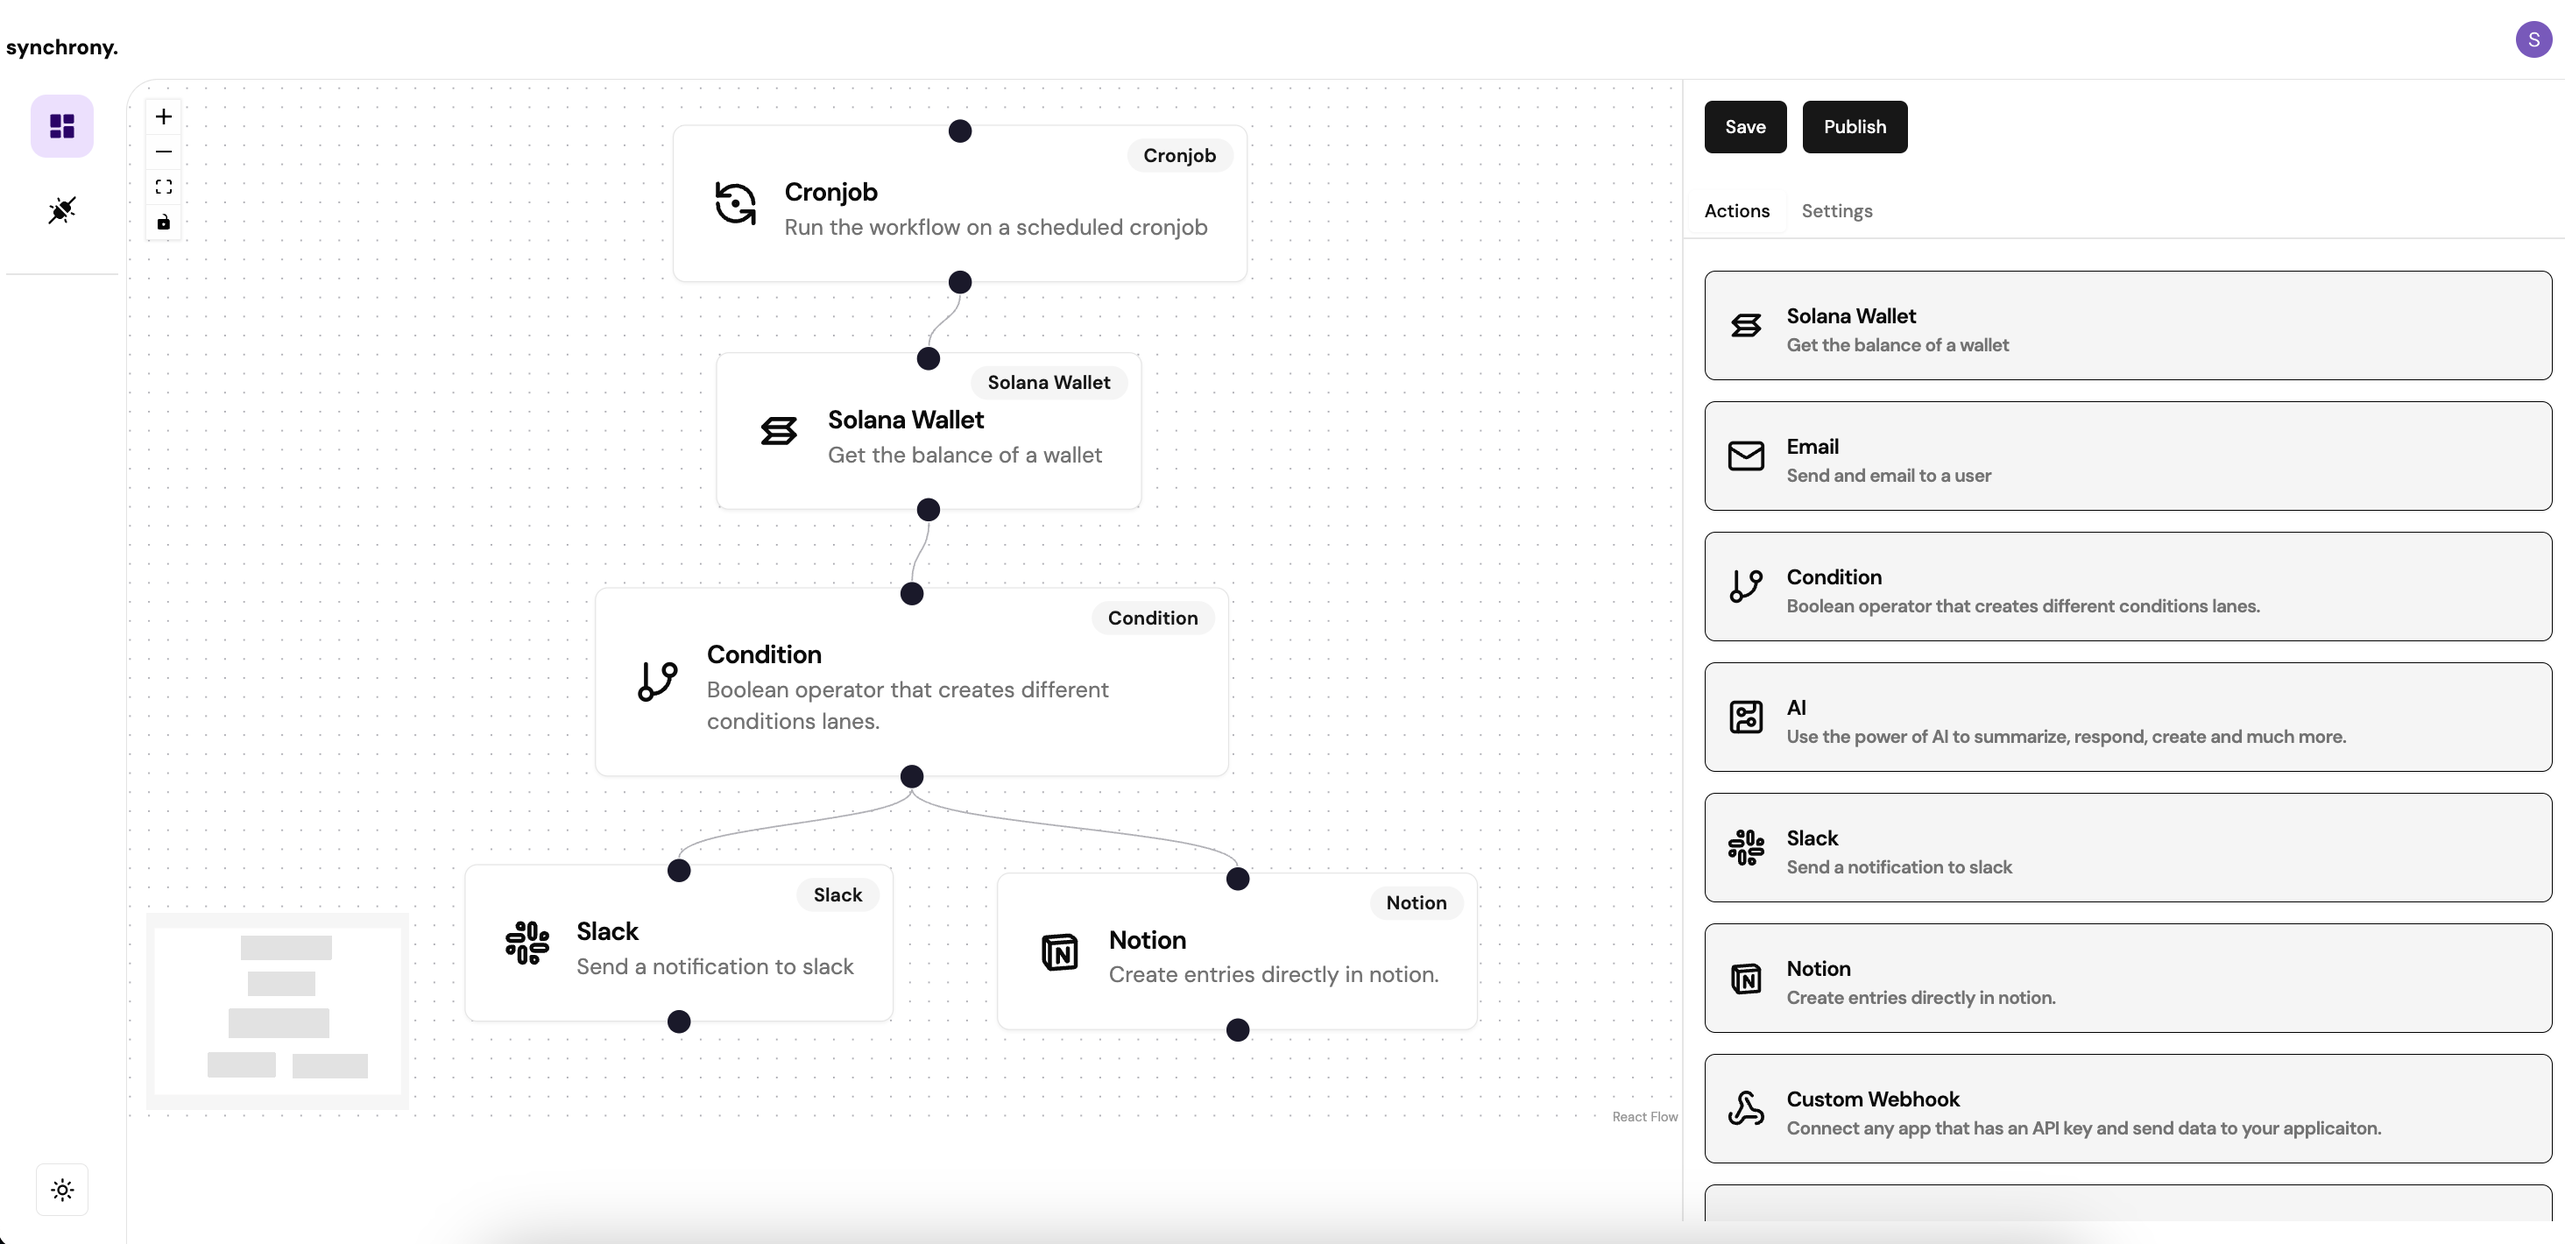
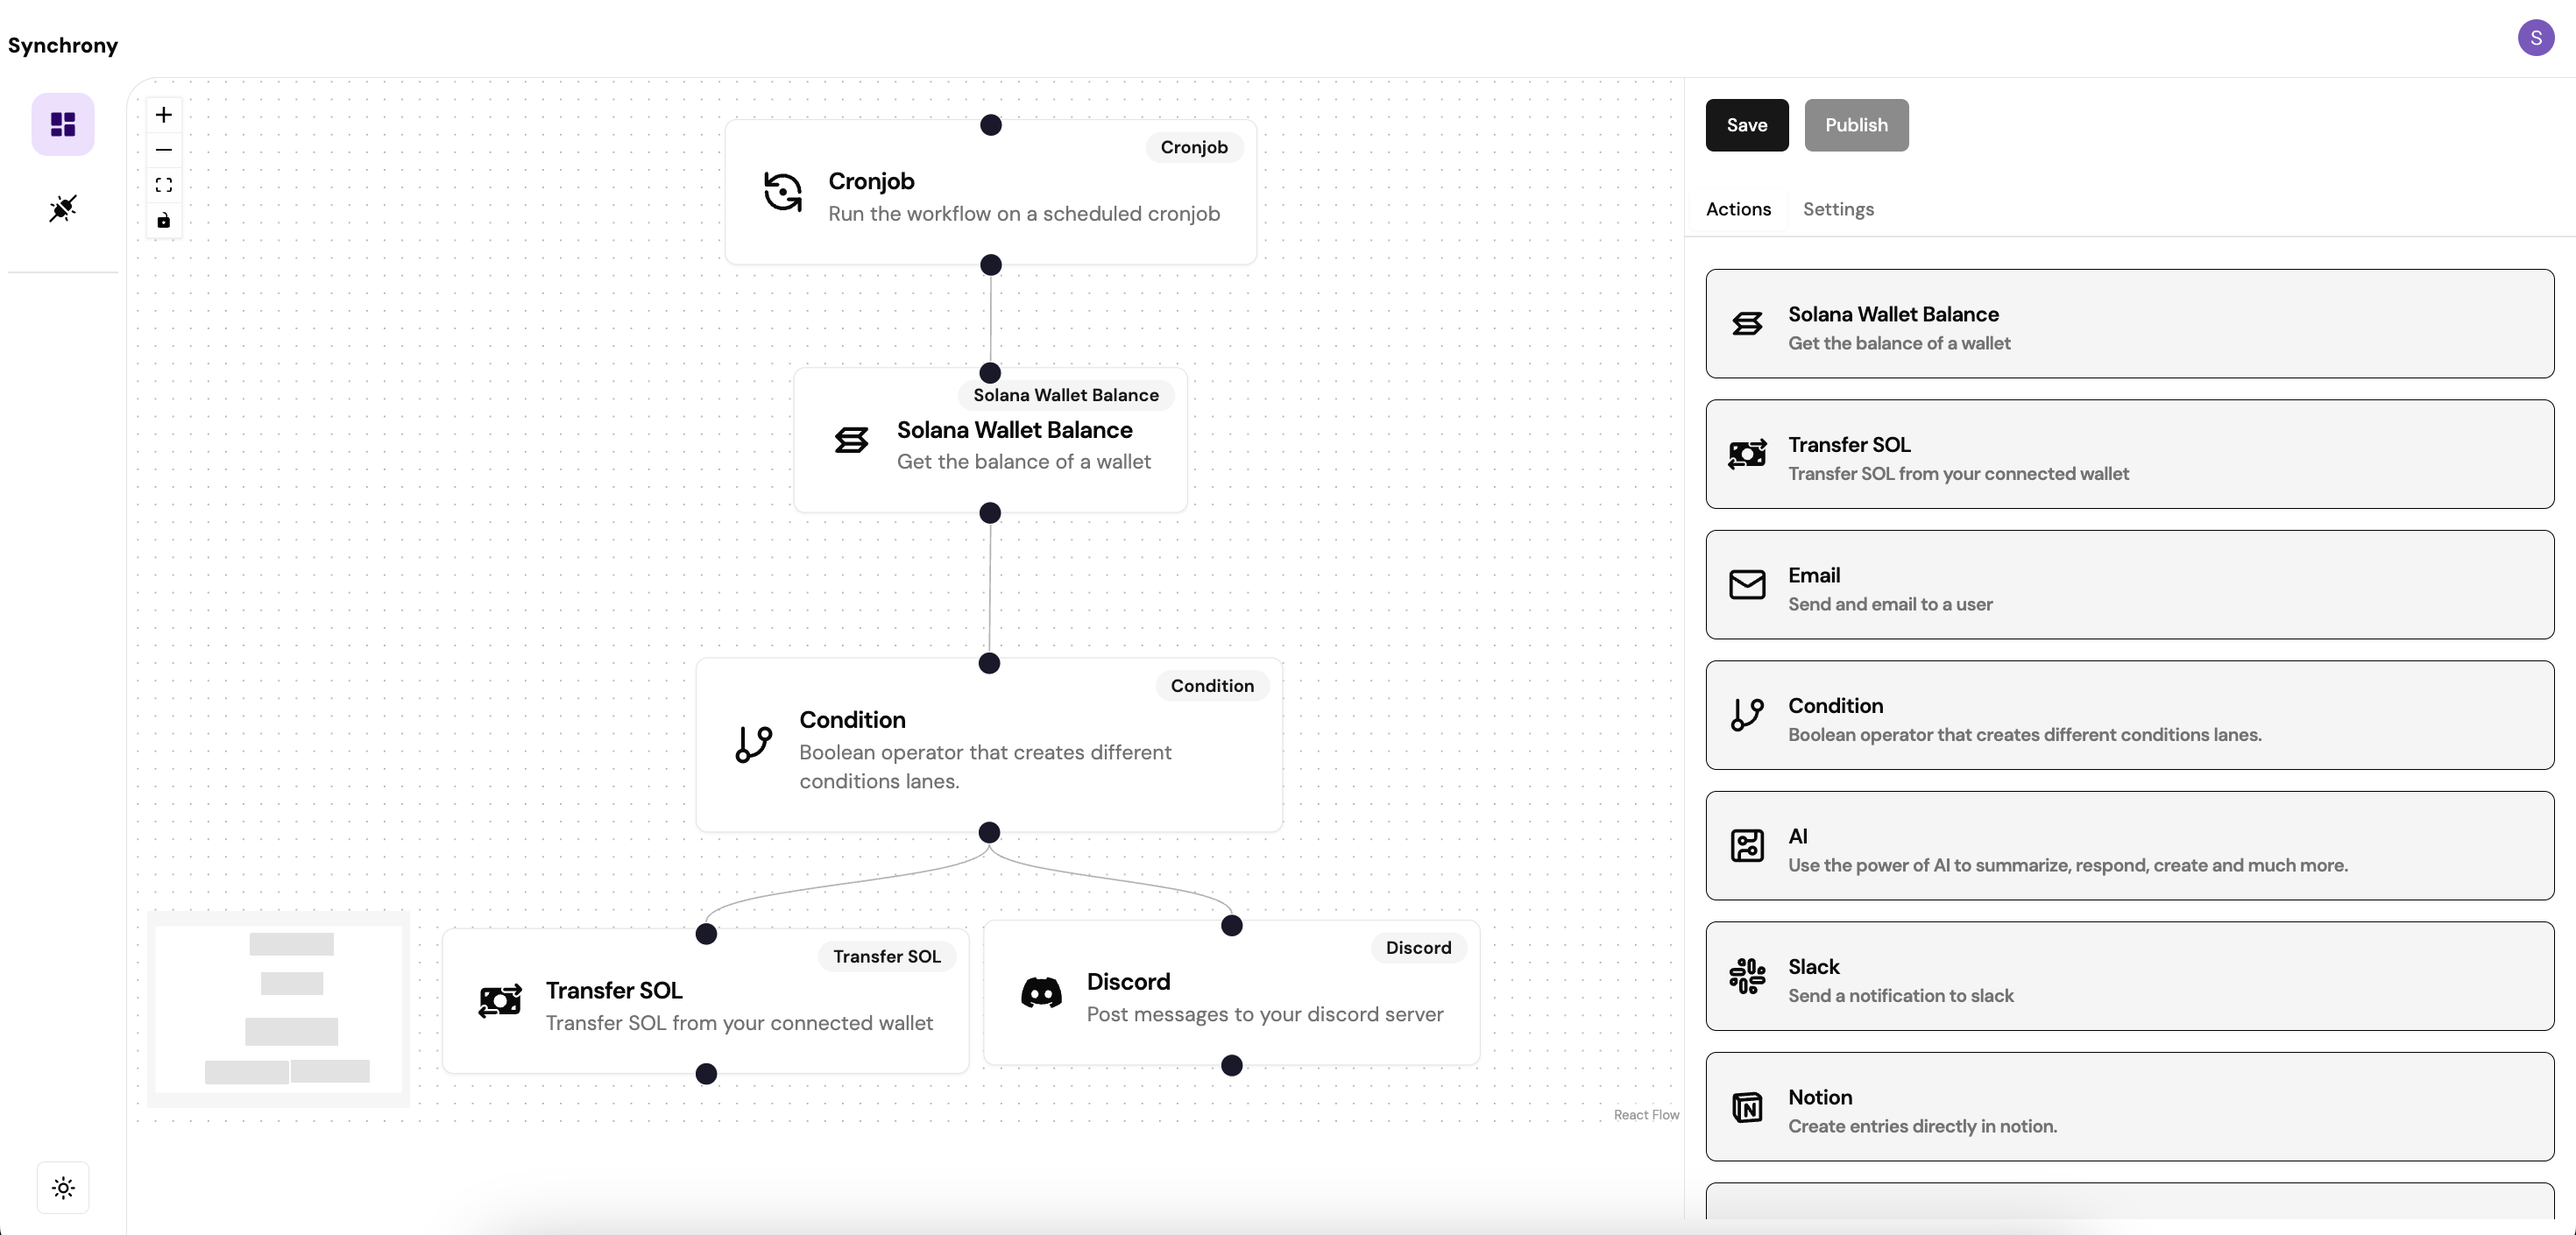
add sol transfer action option; ui updates

diff --git a/src/components/ui/cover.tsx b/src/components/ui/cover.tsx
@@ -35,10 +35,8 @@ export const Cover = ({
 
   return (
     <div
-      onMouseEnter={() => setHovered(true)}
-      onMouseLeave={() => setHovered(false)}
       ref={ref}
-      className="relative hover:bg-neutral-900 group/cover inline-block dark:bg-neutral-900 bg-neutral-100 px-2 py-2 transition duration-200 rounded-sm"
+      className="relative group/cover inline-block px-2 py-2 transition duration-200 rounded-sm"
     >
       <AnimatePresence>
         {hovered && (
@@ -130,7 +128,7 @@ export const Cover = ({
           },
         }}
         className={cn(
-          'dark:text-white inline-block text-neutral-900 relative z-20 group-hover/cover:text-white transition duration-200',
+          'text-white inline-block relative z-20 text-white transition duration-200',
           className
         )}
       >
@@ -148,14 +146,12 @@ export const Beam = ({
   className,
   delay,
   duration,
-  hovered,
   width = 600,
   ...svgProps
 }: {
   className?: string;
   delay?: number;
   duration?: number;
-  hovered?: boolean;
   width?: number;
 } & React.ComponentProps<typeof motion.svg>) => {
   const id = useId();
@@ -178,26 +174,26 @@ export const Beam = ({
       <defs>
         <motion.linearGradient
           id={`svgGradient-${id}`}
-          key={String(hovered)}
+          key="true"
           gradientUnits="userSpaceOnUse"
           initial={{
             x1: '0%',
-            x2: hovered ? '-10%' : '-5%',
+            x2: '-10%',
             y1: 0,
             y2: 0,
           }}
           animate={{
             x1: '110%',
-            x2: hovered ? '100%' : '105%',
+            x2: '100%',
             y1: 0,
             y2: 0,
           }}
           transition={{
-            duration: hovered ? 0.5 : (duration ?? 2),
+            duration: 0.5,
             ease: 'linear',
             repeat: Infinity,
-            delay: hovered ? Math.random() * (1 - 0.2) + 0.2 : 0,
-            repeatDelay: hovered ? Math.random() * (2 - 1) + 1 : (delay ?? 1),
+            delay: Math.random() * (1 - 0.2) + 0.2,
+            repeatDelay: Math.random() * (2 - 1) + 1,
           }}
         >
           <stop stopColor="#2EB9DF" stopOpacity="0" />
@@ -219,7 +215,7 @@ export const CircleIcon = ({
   return (
     <div
       className={cn(
-        `pointer-events-none animate-pulse group-hover/cover:hidden group-hover/cover:opacity-100 group h-2 w-2 rounded-full bg-neutral-600 dark:bg-white opacity-20 group-hover/cover:bg-white`,
+        `pointer-events-none animate-pulse group-hover/cover:hidden group-hover/cover:opacity-100 group h-2 w-2 rounded-full dark:bg-white opacity-20 group-hover/cover:bg-white`,
         className
       )}
     ></div>

diff --git a/src/components/sidebar/index.tsx b/src/components/sidebar/index.tsx
@@ -12,7 +12,6 @@ import { menuOptions } from '@/lib/constant';
 import clsx from 'clsx';
 import { Separator } from '@/components/ui/separator';
 import { ModeToggle } from '../global/mode-toggle';
-// import Image from 'next/image';
 
 type Props = {};
 
@@ -23,14 +22,7 @@ const MenuOptions = (props: Props) => {
     <nav className=" dark:bg-black h-screen overflow-scroll  justify-between flex items-center flex-col  gap-10 py-6 px-2">
       <div className="flex items-center justify-center flex-col gap-8">
         <Link className="flex font-bold flex-row " href="/">
-          synchrony.
-          {/* <Image
-            src="./logo.png"
-            height="600"
-            width="600"
-            className="object-cover object-left-top absolute h-full w-full inset-0"
-            alt="logo"
-          /> */}
+          Synchrony
         </Link>
         <TooltipProvider>
           {menuOptions.map((menuItem) => (

diff --git a/src/app/(main)/(pages)/workflows/editor/[editorId]/_components/editor-canvas.tsx b/src/app/(main)/(pages)/workflows/editor/[editorId]/_components/editor-canvas.tsx
@@ -205,6 +205,7 @@ const EditorCanvas = ({ workflow }: Props) => {
       [Cronjobs.Cronjob]: CronjobCanvasCard,
       [Triggers.Trigger]: EditorCanvasCardSingle,
       [Actions.SolanaWalletBalance]: SolanaWalletBalanceCanvasCard,
+      [Actions.TransferSol]: SolanaWalletBalanceCanvasCard,
       [Actions.Action]: EditorCanvasCardSingle,
       [Actions.Email]: EditorCanvasCardSingle,
       [Actions.Condition]: EditorCanvasCardSingle,
@@ -294,7 +295,11 @@ const EditorCanvas = ({ workflow }: Props) => {
             <Spinner />
           </div>
         ) : (
-          <FlowInstance edges={edges} nodes={nodes}>
+          <FlowInstance
+            edges={edges}
+            nodes={nodes}
+            isPublished={workflow.publish || false}
+          >
             <EditorCanvasSidebar nodes={nodes} workflow={workflow} />
           </FlowInstance>
         )}

diff --git a/src/app/(main)/(pages)/workflows/editor/[editorId]/_components/editor-canvas-card-icon-hepler.tsx b/src/app/(main)/(pages)/workflows/editor/[editorId]/_components/editor-canvas-card-icon-hepler.tsx
@@ -4,7 +4,7 @@ import React from 'react';
 import { TbBrandNotion } from 'react-icons/tb';
 import { SiGooglecalendar } from 'react-icons/si';
 import { TbCurrencySolana } from 'react-icons/tb';
-import { FaDiscord } from 'react-icons/fa6';
+import { FaDiscord, FaMoneyBillTransfer } from 'react-icons/fa6';
 import { FiSlack } from 'react-icons/fi';
 import {
   CircuitBoard,
@@ -44,6 +44,8 @@ const EditorCanvasIconHelper = ({ type }: Props) => {
       return <SiGooglecalendar className="flex-shrink-0" size={30} />;
     case Actions.SolanaWalletBalance:
       return <TbCurrencySolana className="flex-shrink-0" size={30} />;
+    case Actions.TransferSol:
+      return <FaMoneyBillTransfer className="flex-shrink-0" size={30} />;
     case Actions.Action:
       return <Zap className="flex-shrink-0" size={30} />;
     case Actions.Discord:

diff --git a/src/app/(main)/(pages)/workflows/editor/[editorId]/_components/flow-instance.tsx b/src/app/(main)/(pages)/workflows/editor/[editorId]/_components/flow-instance.tsx
@@ -13,9 +13,10 @@ type Props = {
   children: React.ReactNode;
   edges: any[];
   nodes: any[];
+  isPublished: boolean;
 };
 
-const FlowInstance = ({ children, edges, nodes }: Props) => {
+const FlowInstance = ({ children, edges, nodes, isPublished }: Props) => {
   const pathname = usePathname();
   const [isFlow, setIsFlow] = useState([]);
   const { nodeConnection } = useNodeConnections();
@@ -60,7 +61,10 @@ const FlowInstance = ({ children, edges, nodes }: Props) => {
         <Button onClick={onFlowAutomation} disabled={isFlow.length < 1}>
           Save
         </Button>
-        <Button disabled={isFlow.length < 1} onClick={onPublishWorkflow}>
+        <Button
+          disabled={isFlow.length < 1 || isPublished}
+          onClick={onPublishWorkflow}
+        >
           Publish
         </Button>
       </div>

diff --git a/src/lib/constant.ts b/src/lib/constant.ts
@@ -137,6 +137,10 @@ export const EditorCanvasDefaultCardTypes: Record<EditorCanvasTypes, CardType> =
       description: 'Get the balance of a wallet',
       type: NodeTypes.Action,
     },
+    [Actions.TransferSol]: {
+      description: 'Transfer SOL from your connected wallet',
+      type: NodeTypes.Action,
+    },
     [Actions.Email]: {
       description: 'Send and email to a user',
       type: NodeTypes.Action,

diff --git a/src/lib/types.ts b/src/lib/types.ts
@@ -40,7 +40,8 @@ export enum Actions {
   Notion = 'Notion',
   // Solana = 'Solana',
   // SolanaSendTransaction = 'Solana Send Transaction',
-  SolanaWalletBalance = 'Solana Wallet',
+  SolanaWalletBalance = 'Solana Wallet Balance',
+  TransferSol = 'Transfer SOL',
   CustomWebhook = 'Custom Webhook',
   GoogleCalendar = 'Google Calendar',
   AI = 'AI',
